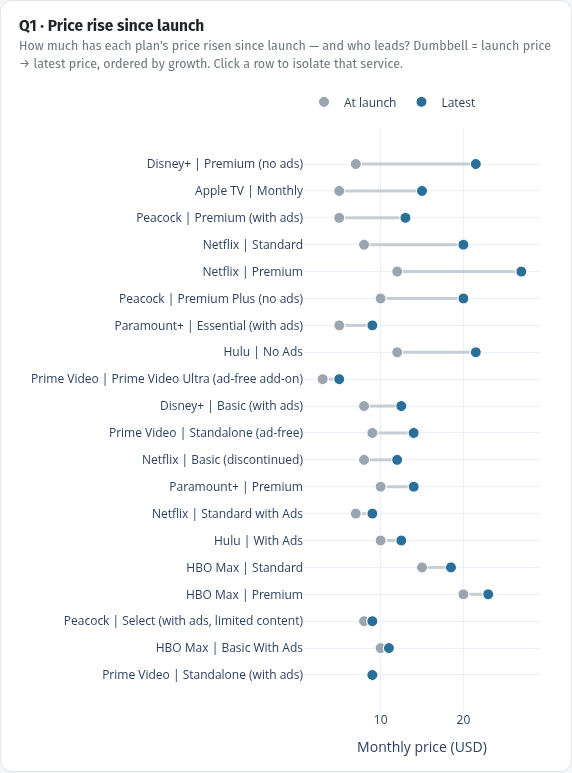
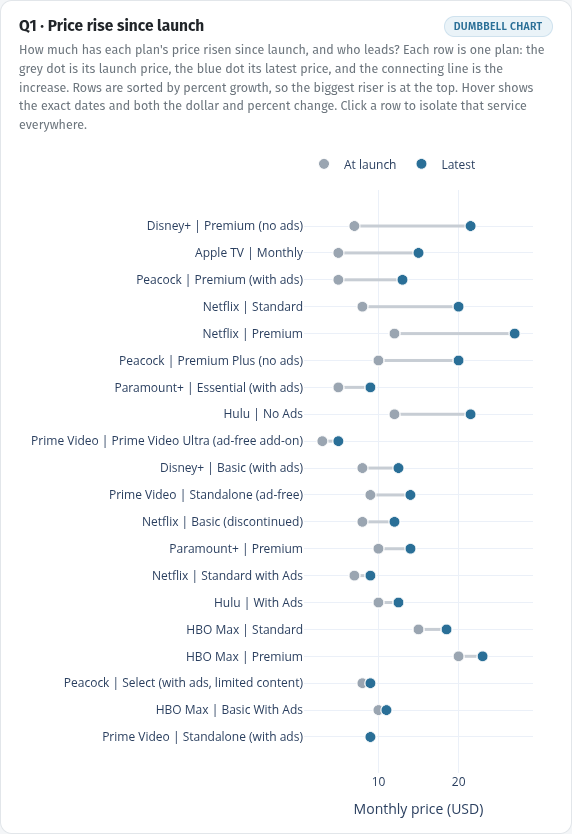
Name the chart type on every card and expand descriptions
Each card now carries a chart-type badge (dumbbell, heatmap, indexed
line, bubble scatter...) so the idiom behind each analytical question
is visible without narration. Descriptions say what is encoded on each
axis, what size/colour mean, how to read the shape, and what the
interaction does.

diff --git a/app/assets/style.css b/app/assets/style.css
@@ -52,7 +52,20 @@ body {
   padding: 14px 18px 6px; min-width: 0;
 }
 .card h3 { margin: 2px 0 2px; font-size: 15.5px; }
-.card .q { margin: 0 0 2px; font-size: 12.5px; color: #6c757d; line-height: 1.45; min-height: 34px; }
+.card-head {
+  display: flex; justify-content: space-between; align-items: center;
+  gap: 10px; flex-wrap: wrap;
+}
+.badge {
+  font-size: 10.5px; font-weight: 600; letter-spacing: 0.3px;
+  color: #2A6F97; background: #EAF3F8; border: 1px solid #CFE2EE;
+  border-radius: 999px; padding: 3px 9px; white-space: nowrap;
+  text-transform: uppercase;
+}
+.card .q {
+  margin: 4px 0 2px; font-size: 12.5px; color: #6c757d;
+  line-height: 1.5; min-height: 34px;
+}
 
 /* calculator */
 .calc { margin-top: 18px; }

diff --git a/app/app.py b/app/app.py
@@ -27,9 +27,12 @@ server = app.server
 GRAPH_CONFIG = {"displaylogo": False, "scrollZoom": True, "modeBarButtonsToRemove": ["lasso2d", "select2d"]}
 
 
-def card(title: str, question: str, graph_id: str) -> html.Div:
+def card(title: str, chart_type: str, question: str, graph_id: str) -> html.Div:
     return html.Div(className="card", children=[
-        html.H3(title),
+        html.Div(className="card-head", children=[
+            html.H3(title),
+            html.Span(chart_type, className="badge"),
+        ]),
         html.P(question, className="q"),
         dcc.Graph(id=graph_id, config=GRAPH_CONFIG),
     ])
@@ -94,35 +97,66 @@ app.layout = html.Div(className="page", children=[
 
         # ---------------- question grid ----------------
         html.Div(className="grid", children=[
-            card("Q1 · Price rise since launch",
-                 "How much has each plan's price risen since launch — and who leads? "
-                 "Dumbbell = launch price → latest price, ordered by growth. "
-                 "Click a row to isolate that service.", "fig-q1"),
-            card("Q2 · Do hikes cluster in time?",
-                 "One dot per price change (size = size of the hike). If competitors "
-                 "move together, dots stack on the same date. Click a dot to isolate "
+            card("Q1 · Price rise since launch", "Dumbbell chart",
+                 "How much has each plan's price risen since launch, and who leads? "
+                 "Each row is one plan: the grey dot is its launch price, the blue dot "
+                 "its latest price, and the connecting line is the increase. Rows are "
+                 "sorted by percent growth, so the biggest riser is at the top. Hover "
+                 "shows the exact dates and both the dollar and percent change. Click a "
+                 "row to isolate that service everywhere.", "fig-q1"),
+            card("Q2 · Do hikes cluster in time?", "Event dot plot (timeline)",
+                 "Do competitors raise prices together, or independently? Each dot is one "
+                 "price change at its exact effective date, on the row of the service that "
+                 "made it. Dot size is the size of the hike, so small steps look small. "
+                 "Clustering shows up as dots stacking vertically on the same date: four "
+                 "months contain four or more simultaneous changes. Click a dot to isolate "
                  "that service.", "fig-q2a"),
-            card("Q2 · Increases per service per year",
-                 "The same clustering story as counts: dark cells show years when "
-                 "whole groups of services raised prices together.", "fig-q2b"),
-            card("Q5 · Small steps or big jumps?",
-                 "Hike size vs months since the plan's previous change; bubble size = "
-                 "absolute change in USD. Bottom-left = frequent small steps; "
-                 "top-right = rare big jumps.", "fig-q5"),
-            card("Q3 · The price of going ad-free",
-                 "Ad-free minus with-ads price: extra USD/month for the cheapest "
-                 "no-ads plan over the cheapest with-ads plan (step lines, since "
-                 "prices only change on specific dates).", "fig-q3a"),
-            card("Q3 · Today's ad-free premium",
-                 "Dumbbell per service at the end of the window: with-ads vs no-ads "
-                 "price. Hover for the exact premium.", "fig-q3b"),
-            card("Q4 · Faster than inflation?",
-                 "Chained market price index vs US CPI-U, both rebased at the start of "
-                 "the analysis window. The gap between the lines is real price growth.",
-                 "fig-q4a"),
-            card("Q4 · Every plan vs inflation",
-                 "Each bubble is a plan over its own lifetime (size = months tracked). "
-                 "Above the dotted line = the price outpaced general inflation.", "fig-q4b"),
+            card("Q2 · Increases per service per year", "Heatmap",
+                 "The same clustering question asked as counts instead of dates. Rows are "
+                 "services, columns are years, and each cell counts price increases in that "
+                 "year, shaded from pale to dark. It answers what the timeline cannot: how "
+                 "many hikes happened per service per year, side by side. Dark horizontal "
+                 "bands mark a service that raises prices often; dark vertical bands mark a "
+                 "year when most of the market moved at once.", "fig-q2b"),
+            card("Q3 · The price of going ad-free", "Step line chart",
+                 "How much extra does it cost to remove ads, and is that premium growing? "
+                 "For each service we take the cheapest no-ads plan minus the cheapest "
+                 "with-ads plan, every month, so the line is the ad-free premium in dollars. "
+                 "Lines are stepped because a price only changes on a specific date; a "
+                 "smooth curve would imply gradual change that never happened. Hover shows "
+                 "both underlying prices. Six of seven services show a widening gap.", "fig-q3a"),
+            card("Q3 · Today's ad-free premium", "Dumbbell chart",
+                 "What does the ad-free upgrade cost right now, service by service? One row "
+                 "per service at the end of the selected window: the amber dot is the "
+                 "cheapest with-ads plan, the blue dot the cheapest no-ads plan, and the "
+                 "line between them is the premium. Sorted by premium size. This is the "
+                 "same question as the chart to its left, collapsed to its latest value.",
+                 "fig-q3b"),
+            card("Q4 · Faster than inflation?", "Indexed line chart",
+                 "Have streaming prices risen faster than the general cost of living? We "
+                 "compare two lines: a chained index of all tracked plans, and US consumer "
+                 "inflation, both rebased to 100 at the start of the analysis window. "
+                 "Rebasing is what makes the comparison fair, since the two series start at "
+                 "different price levels. The vertical gap between the lines is real price "
+                 "growth. Move the window control and the rebasing point moves with it, so "
+                 "you can test the claim from any starting year instead of taking one on "
+                 "trust.", "fig-q4a"),
+            card("Q4 · Every plan vs inflation", "Scatter plot with reference line",
+                 "The per-plan version of the same question, with no aggregation hiding "
+                 "outliers. Each bubble is one plan: horizontal position is inflation over "
+                 "that plan's own lifetime, vertical position is its price growth over the "
+                 "same window, and bubble size is how many months that window covers. Above "
+                 "the dotted line the price outran inflation; below it, the price lost "
+                 "ground in real terms. Hover for launch and latest price and date.",
+                 "fig-q4b"),
+            card("Q5 · Small steps or big jumps?", "Bubble scatter plot",
+                 "How do services raise prices: often and a little, or rarely and a lot? Each "
+                 "bubble is a single price change. Horizontal position is how many months "
+                 "passed since that plan's previous change, vertical position is the size of "
+                 "the hike in percent, and bubble size is the change in dollars. Frequent "
+                 "small increases crowd the bottom left; rare large jumps sit high and to the "
+                 "right. Bubble size separates a one-dollar rise on a cheap plan from the "
+                 "same percent rise on an expensive one.", "fig-q5"),
         ]),
     ]),
 
